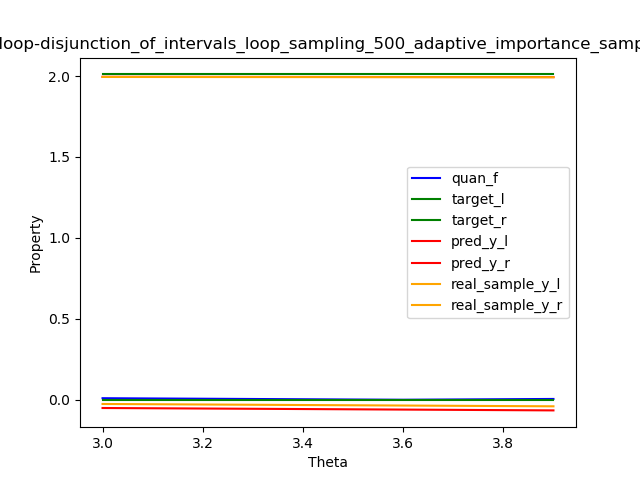
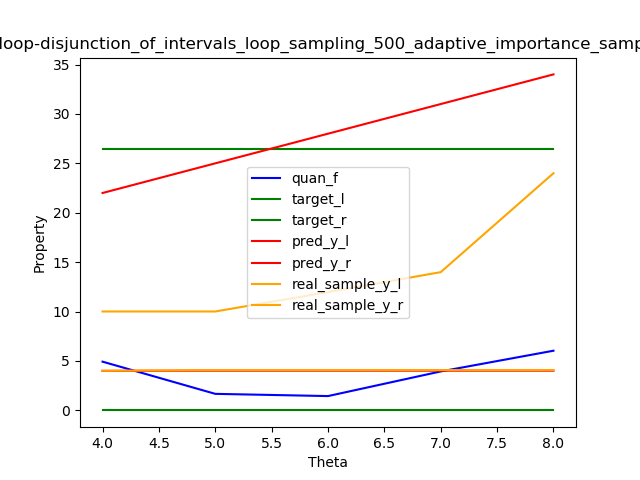
update

diff --git a/framework_trajectories/program_test_disjunction_2.py b/framework_trajectories/program_test_disjunction_2.py
@@ -61,16 +61,28 @@ def initialization_point(x):
 
 def f1(x):
     return x[0].add(var(0.01))
+def f1_domain(x):
+    return x[0].add(var(0.01))
 def f_double(x):
+    return x[0].mul(var(2.0))
+def f_double_domain(x):
     return x[0].mul(var(2.0))
 def f_triple(x):
     # print('in triple', x[0])
     return x[0].mul(var(3.0))
+def f_triple_domain(x):
+    return x[0].mul(var(3.0))
 def f_identity(x):
+    return x[0]
+def f_identity_domain(x):
     return x[0]
 def f_add(x):
     return x[0].add(var(1.0))
+def f_add_domain(x):
+    return x[0].add(var(1.0))
 def f_add_more(x):
+    return x[0].add(var(10.0))
+def f_add_more_domain(x):
     return x[0].add(var(10.0))
 def f_max(x):
     return torch.max(x[0], x[1])
@@ -84,12 +96,15 @@ def f_min_domain(x):
 
 def f_equal(x):
     return x[1].div(var(25.0))
+def f_equal_domain(x):
+    return x[1].mul(var(1/25.0))
 
 # for if condition
 def f_triple_sub(x):
     return x.mul(var(3.0)).sub(var(0.0001))
 def fsub(x):
     return x.sub(var(0.001))
+
 def fself(x):
     return x
 
@@ -97,25 +112,25 @@ def fself(x):
 
 def construct_syntax_tree(Theta):
 
-    l12 = Assign(['x_max', 'h'], f_max, None)
-    l11 = Assign(['x_min', 'h'], f_min, l12)
+    l12 = Assign(['x_max', 'h'], f_max_domain, None)
+    l11 = Assign(['x_min', 'h'], f_min_domain, l12)
 
-    l10 = Assign(['h'], f_add_more, l11)
-    l9 = Assign(['h'], f_identity, l11)
+    l10 = Assign(['h'], f_add_more_domain, l11)
+    l9 = Assign(['h'], f_identity_domain, l11)
     l8 = Ifelse('h', Theta, f_triple_sub, l9, l10, l11)
-    l7 = Assign(['res', 'count'], f_equal, l8)
+    l7 = Assign(['res', 'count'], f_equal_domain, l8)
 
-    l6_1 = Assign(['x_max', 'h'], f_max, None)
-    l6 = Assign(['x_min', 'h'], f_min, l6_1)
-    l5 = Assign(['count'], f_add, l6)
+    l6_1 = Assign(['x_max', 'h'], f_max_domain, None)
+    l6 = Assign(['x_min', 'h'], f_min_domain, l6_1)
+    l5 = Assign(['count'], f_add_domain, l6)
 
-    l4 = Assign(['h'], f_identity, l11)
-    l3_1 = Assign(['h'], f_triple, l11)
-    l3_0 = Assign(['h'], f_double, l11)
+    l4 = Assign(['h'], f_identity_domain, l11)
+    l3_1 = Assign(['h'], f_triple_domain, l11)
+    l3_0 = Assign(['h'], f_double_domain, l11)
     l3 = Ifelse('h', Theta, fsub, l3_0, l3_1, None)
     l2 = Ifelse('h', Theta, fself, l3, l4, l5)
 
-    l1 = Assign(['h'], f1, l2)
+    l1 = Assign(['h'], f1_domain, l2)
     l0 = WhileSample('h', var(10), l1, l7)
 
     tree_dict = dict()

diff --git a/framework_trajectories/run_baseline_2.py b/framework_trajectories/run_baseline_2.py
@@ -16,12 +16,12 @@ from test_baseline_2 import *
 # from program3 import *
 # from program4 import *
 # from program5 import *
-from program6 import *
+# from program6 import *
 # from program6_loop import *
 # from program7 import *
 # from program8 import *
 # from program_test_disjunction import *
-# from program_test_disjunction_2 import *
+from program_test_disjunction_2 import *
 
 from args import *
 
@@ -43,20 +43,20 @@ if __name__ == "__main__":
     optimize_f = optimizer[optimizer_name]
 
     # data points generation
-    for i in range(10):
-        target = domain.Interval(safe_l, safe_r)
-        X_train, X_test, y_train, y_test = data_generator(x_l, x_r, size=100000, target_theta=target_theta, test_size=0.99)
+    # for i in range(10):
+    #     target = domain.Interval(safe_l, safe_r)
+    #     X_train, X_test, y_train, y_test = data_generator(x_l, x_r, size=10000, target_theta=target_theta, test_size=0.99)
 
-        theta, loss, loss_list, q, c = optimize_f(X_train, y_train, theta_l, theta_r, target, lambda_=var(50.0), stop_val=stop_val, epoch=500, lr=lr)
+    #     theta, loss, loss_list, q, c = optimize_f(X_train, y_train, theta_l, theta_r, target, lambda_=var(50.0), stop_val=stop_val, epoch=500, lr=lr)
 
-        eval(X_train, y_train, theta, target, 'train')
-        eval(X_test, y_test, theta, target, 'test')
+    #     eval(X_train, y_train, theta, target, 'train')
+    #     eval(X_test, y_test, theta, target, 'test')
 
     # test
-    # target = domain.Interval(safe_l, safe_r)
-    # X_train, X_test, y_train, y_test = data_generator(x_l, x_r, size=100, target_theta=target_theta, test_size=0.1)
+    target = domain.Interval(safe_l, safe_r)
+    X_train, X_test, y_train, y_test = data_generator(x_l, x_r, size=10000, target_theta=target_theta, test_size=0.33)
 
-    # test(X_train, y_train, theta_l, theta_r, target)
+    test(X_train, y_train, theta_l, theta_r, target)
 
 
 

diff --git a/framework_trajectories/constants.py b/framework_trajectories/constants.py
@@ -39,7 +39,7 @@ PARTIAL_BETA = var(1.0) # 1.0
 EPSILON = var(0.00001)
 B = var(200) # the range of lambda
 
-CURRENT_PROGRAM = 'program6_loop' # 'program_test_disjunction_2'
+CURRENT_PROGRAM = 'program_test_junction' # 'program_test_disjunction_2'
 
 # PROGRAM #1
 # ! have problem!
@@ -105,24 +105,24 @@ CURRENT_PROGRAM = 'program6_loop' # 'program_test_disjunction_2'
 # safe_r = 11.0
 
 # PROGRAM_TEST_DISJUNCTION_2
-# x_l = [2.0]
-# x_r = [9.99]
-# target_theta = 5.49
-# theta_l = 4.0
-# theta_r = 9.0
-# safe_l = N_INFINITY.data.item()# 0.0
-# safe_r = 26.48
+x_l = [2.0]
+x_r = [9.99]
+target_theta = 5.49
+theta_l = 4.0
+theta_r = 9.0
+safe_l = 0.0 # N_INFINITY.data.item()# 0.0
+safe_r = 26.48
 
-# PROGRAM_6
-x_l = [0.0, 0.0, 0.0, 0.0]
-x_r = [2.0, 2.0, 2.0, 2.0]
-target_theta = 3.8
-theta_l = 2.5 #0 .001
-theta_r = 4.5 # 0.01
-safe_l = -0.07 # N_INFINITY.data.item()
-safe_r = 1.99342
+# # PROGRAM_6
+# x_l = [0.0, 0.0, 0.0, 0.0]
+# x_r = [2.0, 2.0, 2.0, 2.0]
+# target_theta = 3.9
+# theta_l = 3.5 #0 .001
+# theta_r = 4.0 # 0.01
+# safe_l = -0.07 # N_INFINITY.data.item()
+# safe_r = 1.99322
 
-# PROGRAM_6_loop
+# PROGRAM_6_loop [work]
 # sample size: 20000
 # noise: 0.3
 # command: --lr 0.1 --stop_val 0.01 --optimizer gd_direct_noise

diff --git a/framework_trajectories/program6.py b/framework_trajectories/program6.py
@@ -228,11 +228,11 @@ def f2_domain(x):
 # replace jsi1 theta - 0.005
 def f2_theta(theta):
     def f2_in(x):
-        return x[0].add(stim.sub(theta.sub(var(0.005))).sub(jso1_theta(x[0], theta).add(theta.sub(var(0.005)))).mul(delta_t))
+        return x[0].add(stim.sub(theta.sub(var(0.0055))).sub(jso1_theta(x[0], theta).add(theta.sub(var(0.0055)))).mul(delta_t))
     return f2_in
 def f2_theta_domain(theta):
     def f2_in_domain(x):
-        y = x[0].add(jso1_theta_domain(x[0], theta).add(theta.sub(var(0.005))).sub_r(stim.sub(theta.sub(var(0.005)))).mul(delta_t))
+        y = x[0].add(jso1_theta_domain(x[0], theta).add(theta.sub(var(0.0055))).sub_r(stim.sub(theta.sub(var(0.0055)))).mul(delta_t))
         # print(x[0].right, y.right)
         return y
     return f2_in_domain

diff --git a/framework_trajectories/data_generator.py b/framework_trajectories/data_generator.py
@@ -13,12 +13,12 @@ from constants import *
 # from program3 import *
 # from program4 import *
 # from program5 import *
-from program6 import *
+# from program6 import *
 # from program6_loop import *
 # from program7 import *
 # from program8 import *
 # from program_test_disjunction import *
-# from program_test_disjunction_2 import *
+from program_test_disjunction_2 import *
 
 
 # def show_tmp_x_y(symbol_table):

diff --git a/framework_trajectories/run.py b/framework_trajectories/run.py
@@ -9,12 +9,12 @@ from test import *
 # from program3 import *
 # from program4 import *
 # from program5 import *
-from program6 import *
+# from program6 import *
 # from program6_loop import *
 # from program7 import *
 # from program8 import *
 # from program_test_disjunction import *
-# from program_test_disjunction_2 import *
+from program_test_disjunction_2 import *
 
 from args import *
 

diff --git a/framework_trajectories/optimization_baseline_2.py b/framework_trajectories/optimization_baseline_2.py
@@ -89,7 +89,7 @@ if MODE == 1:
 
 def plot_sep_quan_safe_trend(X_train, y_train, theta_l, theta_r, target, k=100):
     print('in plot_sep_quan_safe_trend')
-    k=10
+    # k=5
     unit = (theta_r - theta_l) * 1.0 / k
     
     theta_list = list()
